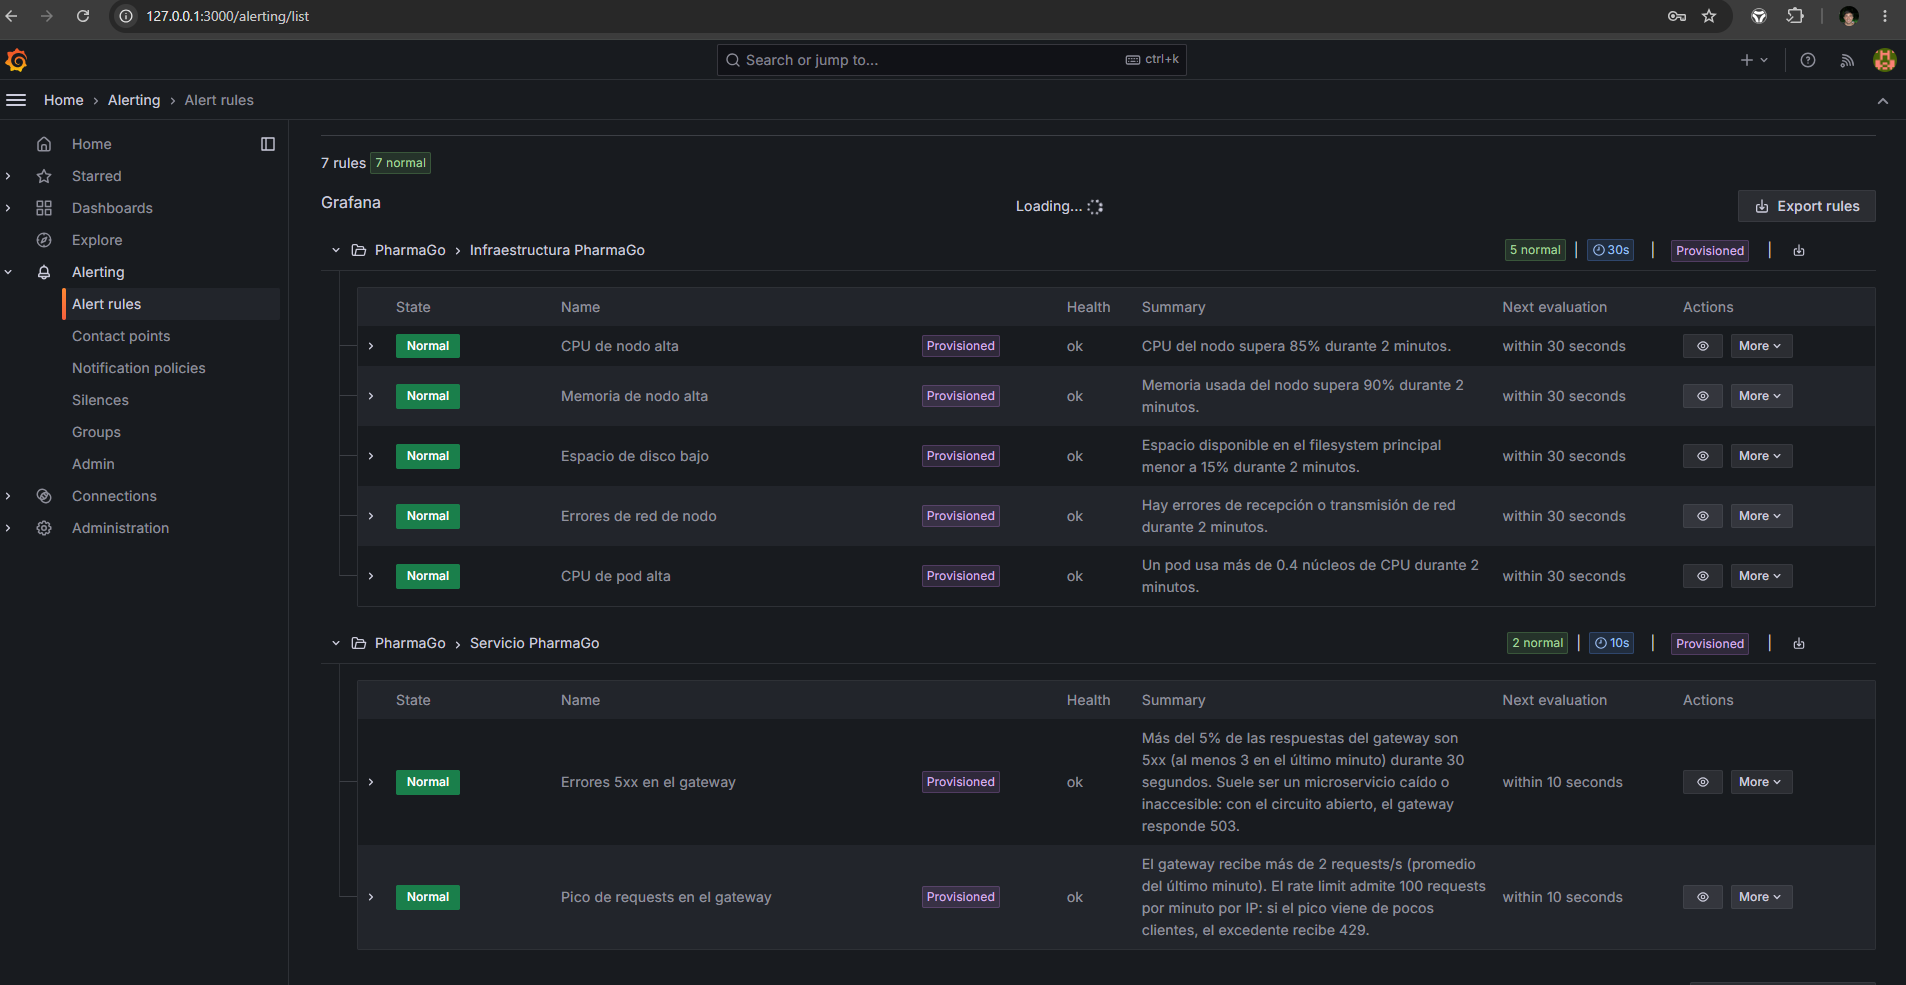
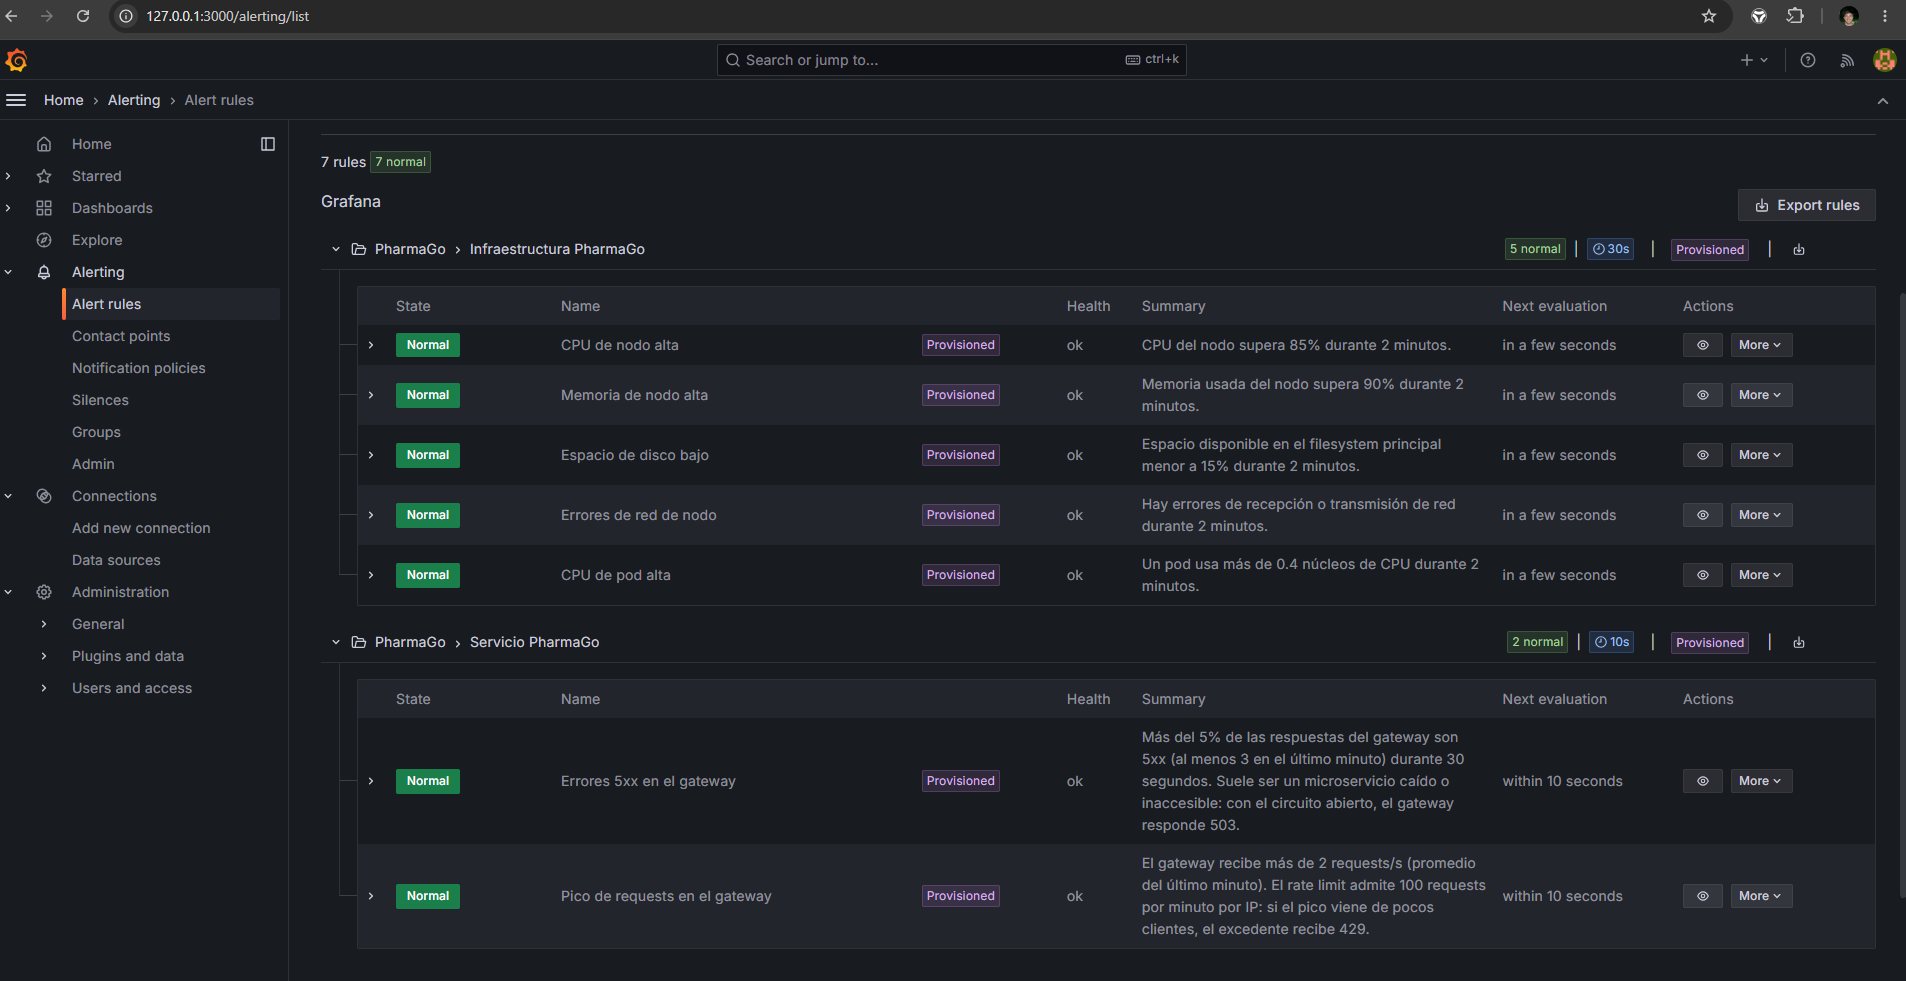
docs(evidencia): replace telemetry captures and add Kibana, Jaeger and kubectl top
Also corrects the containment plan: kubectl top needs the Minikube
metrics-server addon, which was disabled on this cluster.

diff --git a/docs/evidencia/README.md b/docs/evidencia/README.md
@@ -81,8 +81,12 @@ Versión: main con las 7 alertas (PRs #28 y #29) desplegada con `deploy-telemetr
 | Archivo | Qué muestra | Fecha |
 |---|---|---|
 | [01-grafana-alert-rules.png](04-telemetria/01-grafana-alert-rules.png) | *Alerting → Alert rules*, carpeta PharmaGo: las 7 reglas provisionadas y en **Normal**. Grupo *Infraestructura PharmaGo* (5 reglas, evaluación cada 30 s) y grupo *Servicio PharmaGo* (5xx y pico de requests en el gateway, cada 10 s). | 2026-11-14 |
-| [02-grafana-overview-superior.png](04-telemetria/02-grafana-overview-superior.png) | *PharmaGo - Overview*, mitad superior: peticiones por segundo y latencia por endpoint, tasa de error (0 %) y throughput total (~2 req/s, casi todo `/health` de las probes). El tramo de las 15:15 a las 15:22 corresponde al reinicio del cluster y al despliegue de la telemetría. | 2026-11-14 |
-| [03-grafana-overview-inferior.png](04-telemetria/03-grafana-overview-inferior.png) | Resto del Overview: *Distribución de Status Codes* ya muestra datos (`200` = 100 %), después de corregir la consulta que dividía series con y sin la etiqueta `status_code`. Sin `429` ni errores por tipo: "No data" es lo esperado sin fallas. | 2026-11-14 |
+| [02-grafana-overview-1.png](04-telemetria/02-grafana-overview-1.png) | *PharmaGo - Overview*, parte superior (15:32 a 15:47): peticiones por segundo y latencia por endpoint, tasa de error (0 %) y throughput total (~1.8 req/s). Casi todo el tráfico es `/health`, que consultan las probes de Kubernetes. | 2026-11-14 |
+| [02-grafana-overview-2.png](04-telemetria/02-grafana-overview-2.png) | Overview, parte inferior: *Distribución de Status Codes* con `200` = 100 %, después de corregir la consulta que dividía series con y sin la etiqueta `status_code`. *Rate Limit Errors (429)* y *Tasa de Error por Tipo* dicen "No data", que es lo esperado sin fallas. | 2026-11-14 |
+| [03-grafana-infra-1.png](04-telemetria/03-grafana-infra-1.png), [-2](04-telemetria/03-grafana-infra-2.png), [-3](04-telemetria/03-grafana-infra-3.png) | *PharmaGo - Infra* completo, de arriba hacia abajo: CPU, memoria y disco por nodo (una serie por cada uno de los 5 nodos), CPU, memoria, red y storage efímero por pod. Valores estables, fuera del reinicio del cluster. | 2026-11-14 |
+| [04-kibana-log-json.png](04-telemetria/04-kibana-log-json.png) | Kibana, data view `pharmago-logs-*`, filtro `kubernetes.labels.app : "pharmago-api-gateway"`: 120 eventos y uno abierto con los campos JSON `Message`, `LogLevel` y `Category`, más los metadatos de Kubernetes que agrega Fluent Bit (pod, nodo `pharmago-m03`, imagen). | 2026-11-14 |
+| [05-jaeger-traza-gateway.png](04-telemetria/05-jaeger-traza-gateway.png) | Jaeger: traza de `GET /api/drug` con 3 spans en 2 servicios. El gateway recibe el request (`/api/drug`, 5.11 ms), lo reenvía (`HTTP GET`, 4.55 ms) y pharmacy lo atiende (`api/Drug`, 3.79 ms). | 2026-11-14 |
+| [06-kubectl-top.txt](04-telemetria/06-kubectl-top.txt) | `kubectl top nodes` y `kubectl top pods -n pharmago`, con el addon metrics-server de Minikube. Coincide con los paneles de Infra: los pods del backend usan 1–2 m de CPU y 37–64 MiB. | 2026-11-14 |
 
 ### 05 · Detección de anomalías
 

diff --git a/docs/plan-de-contencion.md b/docs/plan-de-contencion.md
@@ -278,7 +278,7 @@ Hay dos formas de inyectar caos:
    - K3 → `pharmago-chaos-cpu-*` y su nodo,
    - Q6 (ventana de 1 m, más rápida que el panel),
    - Q9 para el nodo,
-   - K7 `kubectl top pods -n pharmago`. Verificado el 2026-11-12: coincide con Q6.
+   - K7 `kubectl top pods -n pharmago`. Requiere el addon metrics-server de Minikube (chequeo en 12.3); si no está, usar Q6.
 2. Determinar el origen con K1, K4 y los logs del pod (K5). En la variante B no hay pod de caos: el consumo lo tiene un pod de la app.
 3. Verificar los límites configurados: 0.5 CPU en los pods de la app y 1 CPU en el pod de carga.
 4. Descartar impacto: con Q1 = 0 y Q5 < 1000 ms, solo están afectados los recursos (SEV3).
@@ -715,7 +715,7 @@ Son 15 req/min, por debajo del rate limiting. Replica el tráfico de la [línea 
 | Ruta de punta a punta | K8 con `/api/drug` y `/test-health` | `HTTP/1.1 200 OK` |
 | Errores | Q1 | 0 |
 | Alertas | Grafana → Alert rules | Las 7 en **Normal** |
-| metrics-server (para K7) | `kubectl top nodes` | Valores para los 5 nodos (funcionaba el 2026-11-12). Si falla, no usar K7: usar Q6 y Q7. |
+| metrics-server (para K7) | `kubectl top nodes` | Valores para los 5 nodos. Si da `Metrics API not available`, activar el addon: `minikube addons enable metrics-server -p pharmago` (tarda ~1 min en tener datos). Mientras tanto, usar Q6 y Q7. |
 | Mapeo de `Message` en Kibana | Kibana → Dev Tools: `GET pharmago-logs-*/_field_caps?fields=Message,Message.keyword` | `Message` = `text` y `Message.keyword` = `keyword` (verificado el 2026-11-14 en todos los índices) |
 | Tráfico de fondo corriendo | `kubectl logs -n pharmago war-room-traffic --tail=6` | Líneas `ok` para `/api/drug`, `/api/pharmacy` y `/test-health` |
 | Logs | Kibana | Hay eventos del gateway de los últimos 2 min |
@@ -769,7 +769,7 @@ En el archivo crudo, los `|` de las expresiones regulares están escapados como 
 | K4 | Últimos eventos | `kubectl get events -n pharmago --sort-by=.lastTimestamp \| tail -20` |
 | K5 | Logs del gateway | `kubectl logs -n pharmago -l app=pharmago-api-gateway --tail=50 --prefix` |
 | K6 | Diferencias con el repo | `kubectl diff -f services/backend/ -f deployments/backend/` |
-| K7 | Consumo en vivo | `kubectl top pods -n pharmago` |
+| K7 | Consumo en vivo | `kubectl top pods -n pharmago` (requiere el addon metrics-server; ver 12.3) |
 | K8 | Prueba desde dentro del cluster | `kubectl run war-room-check -n pharmago --rm -i --restart=Never --image=busybox:1.36 --image-pull-policy=IfNotPresent -- wget -S -q -T 3 -O /dev/null http://pharmago-api-gateway/api/drug` (cambiar la URL según el caso) |
 
 Restauración completa si `run-chaos.py` se interrumpe (tomada de [chaos-engineering/README.md](../Implementacion%20K8S/Codigo/chaos-engineering/README.md#restauración)):
